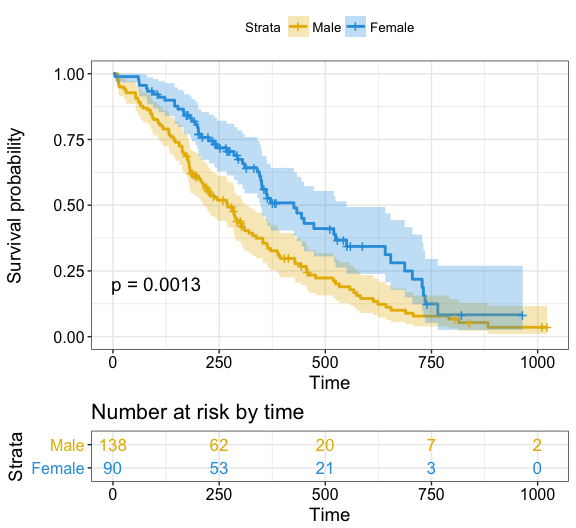
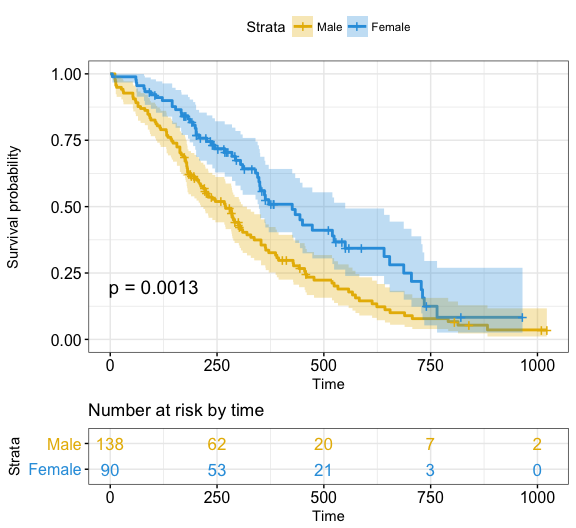
README updated #151

diff --git a/README.md b/README.md
@@ -143,29 +143,32 @@ ggsurvplot(
 ### Uber customized survival curves
 
 ``` r
-ggsurvplot(
-   fit,                     # survfit object with calculated statistics.
-   data = lung,             # data used to fit survival curves.
-   risk.table = TRUE,       # show risk table.
-   pval = TRUE,             # show p-value of log-rank test.
-   conf.int = TRUE,         # show confidence intervals for 
-                            # point estimates of survival curves.
-   xlim = c(0,500),         # present narrower X axis, but not affect
-                            # survival estimates.
-   xlab = "Time in days",   # customize X axis label.
-   break.time.by = 100,     # break X axis in time intervals by 500.
-   ggtheme = theme_light(), # customize plot and risk table with a theme.
-  risk.table.y.text.col = T,# colour risk table text annotations.
-  risk.table.y.text = FALSE,# show bars instead of names in text annotations
-                            # in legend of risk table.
-  ncensor.plot = TRUE,      # plot the number of censored subjects at time t
-  conf.int.style = "step",  # customize style of confidence intervals
-  surv.median.line = "hv",  # add the median survival pointer.
-  legend.labs = 
-    c("Male", "Female"),    # change legend labels.
-  palette = 
-    c("#E7B800", "#2E9FDF") # custom color palettes.
-)
+ggsurv <- ggsurvplot(
+           fit,                     # survfit object with calculated statistics.
+           data = lung,             # data used to fit survival curves.
+           risk.table = TRUE,       # show risk table.
+           pval = TRUE,             # show p-value of log-rank test.
+           conf.int = TRUE,         # show confidence intervals for 
+                                    # point estimates of survival curves.
+           xlim = c(0,500),         # present narrower X axis, but not affect
+                                    # survival estimates.
+           xlab = "Time in days",   # customize X axis label.
+           break.time.by = 100,     # break X axis in time intervals by 500.
+           ggtheme = theme_light(), # customize plot and risk table with a theme.
+          risk.table.y.text.col = T,# colour risk table text annotations.
+          risk.table.height = 0.35, # the height of the risk table
+          risk.table.y.text = FALSE,# show bars instead of names in text annotations
+                                    # in legend of risk table.
+          ncensor.plot = TRUE,      # plot the number of censored subjects at time t
+          ncensor.plot.height = 0.35,
+          conf.int.style = "step",  # customize style of confidence intervals
+          surv.median.line = "hv",  # add the median survival pointer.
+          legend.labs = 
+            c("Male", "Female")    # change legend labels.
+        )
+
+# Apply custom color palettes and print
+ggpar(ggsurv, palette = c("#E7B800", "#2E9FDF"))
 ```
 
 ![](README-ggplot2-uber-customized-survival-plot-1.png)
@@ -173,48 +176,46 @@ ggsurvplot(
 ### Uber platinum customized survival curves
 
 ``` r
-ggsurvplot(
-   fit,                     # survfit object with calculated statistics.
-   data = lung,             # data used to fit survival curves.
-   risk.table = TRUE,       # show risk table.
-   pval = TRUE,             # show p-value of log-rank test.
-   conf.int = TRUE,         # show confidence intervals for 
-                            # point estimates of survival curves.
-   xlim = c(0,500),         # present narrower X axis, but not affect
-                            # survival estimates.
-   xlab = "Time in days",   # customize X axis label.
-   break.time.by = 100,     # break X axis in time intervals by 500.
-   ggtheme = theme_light(), # customize plot and risk table with a theme.
-  risk.table.y.text.col = T,# colour risk table text annotations.
-  risk.table.y.text = FALSE,# show bars instead of names in text annotations
-                            # in legend of risk table.
-  ncensor.plot = TRUE,      # plot the number of censored subjects at time t
-  conf.int.style = "step",  # customize style of confidence intervals
-  surv.median.line = "hv",  # add the median survival pointer.
-  legend.labs = 
-    c("Male", "Female"),    # change legend labels.
-  palette = 
-    c("#E7B800", "#2E9FDF"),# custom color palettes.
-  main = "Survival curves",                       # specify the title of the plot
-  submain = "Based on Kaplan-Meier estimates",    # the subtitle of the plot 
-  caption = "created with survminer",             # the caption of the plot
-  font.main = c(16, "bold", "darkblue"),          # font for titles of the plot, the table and censor part
-  font.submain = c(15, "bold.italic", "purple"),  # font for subtitles in the plot, the table and censor part
-  font.caption = c(14, "plain", "orange"),        # font for captions in the plot, the table and censor part
-  font.x = c(14, "bold.italic", "red"),           # font for x axises in the plot, the table and censor part
-  font.y = c(14, "bold.italic", "darkred"),       # font for y axises in the plot, the table and censor part
-  font.tickslab = c(12, "plain", "darkgreen"),    # font for ticklabs in the plot, the table and censor part
-  ########## risk table #########,
-  risk.table.title = "Note the risk set sizes",          # the title of the risk table
-  risk.table.subtitle = "and remember about censoring.", # the subtitle of the risk table
-  risk.table.caption = "source code: website.com",       # the caption of the risk table
-  risk.table.height = 0.35,                              # the height of the risk table
-  ########## ncensor plot ######
-  ncensor.plot.title = "Number of censorings",           # as above but for the censoring plot
-  ncensor.plot.subtitle = "over the time.",
-  ncensor.plot.caption = "data available at data.com",
-  ncensor.plot.height = 0.35
-)
+# Changing Labels
+# %%%%%%%%%%%%%%%%%%%%%%%%%%
+# Labels for Survival Curves (plot)
+ggsurv$plot <- ggsurv$plot + labs(
+  title = "Survival curves",                     
+  subtitle = "Based on Kaplan-Meier estimates",  
+  caption = "created with survminer"             
+  )
+
+# Labels for Risk Table 
+ggsurv$table <- ggsurv$table + labs(
+  title = "Note the risk set sizes",          
+  subtitle = "and remember about censoring.", 
+  caption = "source code: website.com"        
+  )
+
+# Labels for ncensor plot 
+ggsurv$ncensor.plot <- ggsurv$ncensor.plot + labs( 
+  title = "Number of censorings", 
+  subtitle = "over the time.",
+  caption = "source code: website.com"
+  )
+
+# Changing the font size, style and color
+# %%%%%%%%%%%%%%%%%%%%%%%%%%%%%%%%%%%%%%%
+# Applying the same font style to all the components of ggsurv:
+# survival curves, risk table and censor part
+
+ggsurv <- ggpar(ggsurv,
+          font.title = c(16, "bold", "darkblue"),          # font for titles of the plot, the table and censor part
+          font.subtitle = c(15, "bold.italic", "purple"),  # font for subtitles in the plot, the table and censor part
+          font.caption = c(14, "plain", "orange"),        # font for captions in the plot, the table and censor part
+          font.x = c(14, "bold.italic", "red"),           # font for x axises in the plot, the table and censor part
+          font.y = c(14, "bold.italic", "darkred"),       # font for y axises in the plot, the table and censor part
+          font.tickslab = c(12, "plain", "darkgreen"),    # font for ticklabs in the plot, the table and censor part
+          legend = "top"
+          )
+
+# Apply custom color palettes and print
+ggpar(ggsurv, palette = c("#E7B800", "#2E9FDF"))
 ```
 
 ![](README-ggplot2-uber-platinium-customized-survival-plot-1.png)
@@ -223,39 +224,30 @@ Uber platinum premium customized survival curves
 ------------------------------------------------
 
 ``` r
-ggsurvplot(fit, data = lung, main = "Survival curves", submain = "Based on Kaplan-Meier estimates",
-  caption = "created with survminer",
-  font.main = c(16, "bold", "darkblue"),
-  font.submain = c(15, "bold.italic", "purple"),
-  font.caption = c(14, "plain", "orange"),
-  font.x = c(14, "bold.italic", "red"),
-  font.y = c(14, "bold.italic", "darkred"),
-  font.tickslab = c(12, "plain", "darkgreen"),
-  ########## risk table #########,
-  risk.table = TRUE,
-  risk.table.title = "Note the risk set sizes",
-  risk.table.subtitle = "and remember about censoring.",
-  risk.table.caption = "source code: website.com",
-  risk.table.height = 0.35,
-  font.risk.table.title = c(13, "bold.italic", "green"),
-  font.risk.table.subtitle = c(15, "bold", "pink"),
-  font.risk.table.caption = c(11, "plain", "darkgreen"),
-  font.risk.table.x = c(8, "bold.italic", "orange"),
-  font.risk.table.y = c(11, "bold.italic", "darkgreen"),
-  font.risk.table.tickslab = c(9, "bold", "red"),
-  ######### ncensor plot ###################
-  ncensor.plot = TRUE,
-  ncensor.plot.title = "Number of censorings",
-  ncensor.plot.subtitle = "over the time.",
-  ncensor.plot.caption = "data available at data.com",
-  ncensor.plot.height = 0.35,
-  font.ncensor.plot.title = c(13, "bold.italic", "green"),
-  font.ncensor.plot.subtitle = c(15, "bold", "pink"),
-  font.ncensor.plot.caption = c(11, "plain", "darkgreen"),
-  font.ncensor.plot.x = c(8, "bold.italic", "orange"),
-  font.ncensor.plot.y = c(11, "bold.italic", "darkgreen"),
-  font.ncensor.plot.tickslab = c(9, "bold", "red")
-)
+# Using specific fonts for risk table and ncensor plots
+#%%%%%%%%%%%%%%%%%%%%%%%%%%%%%%%%%%%%%%%%%%%%%%%%%%%%%%%%%%%
+# Font for Risk Table
+ggsurv$table <- ggpar(ggsurv$table,
+                      font.title = c(13, "bold.italic", "green"),
+                      font.subtitle = c(15, "bold", "pink"),
+                      font.caption = c(11, "plain", "darkgreen"),
+                      font.x = c(8, "bold.italic", "orange"),
+                      font.y = c(11, "bold.italic", "darkgreen"),
+                      font.tickslab = c(9, "bold", "red")
+                      )
+
+
+# Font for ncensor plot
+ggsurv$ncensor.plot <- ggpar(ggsurv$ncensor.plot,
+                            font.title = c(13, "bold.italic", "green"),
+                            font.subtitle = c(15, "bold", "pink"),
+                            font.caption = c(11, "plain", "darkgreen"),
+                            font.x = c(8, "bold.italic", "orange"),
+                            font.y = c(11, "bold.italic", "darkgreen"),
+                            font.tickslab = c(9, "bold", "red")
+                            )
+
+print(ggsurv)
 ```
 
 ![](README-ggplot2-uber-platinium-premium-customized-survival-plot-1.png)
